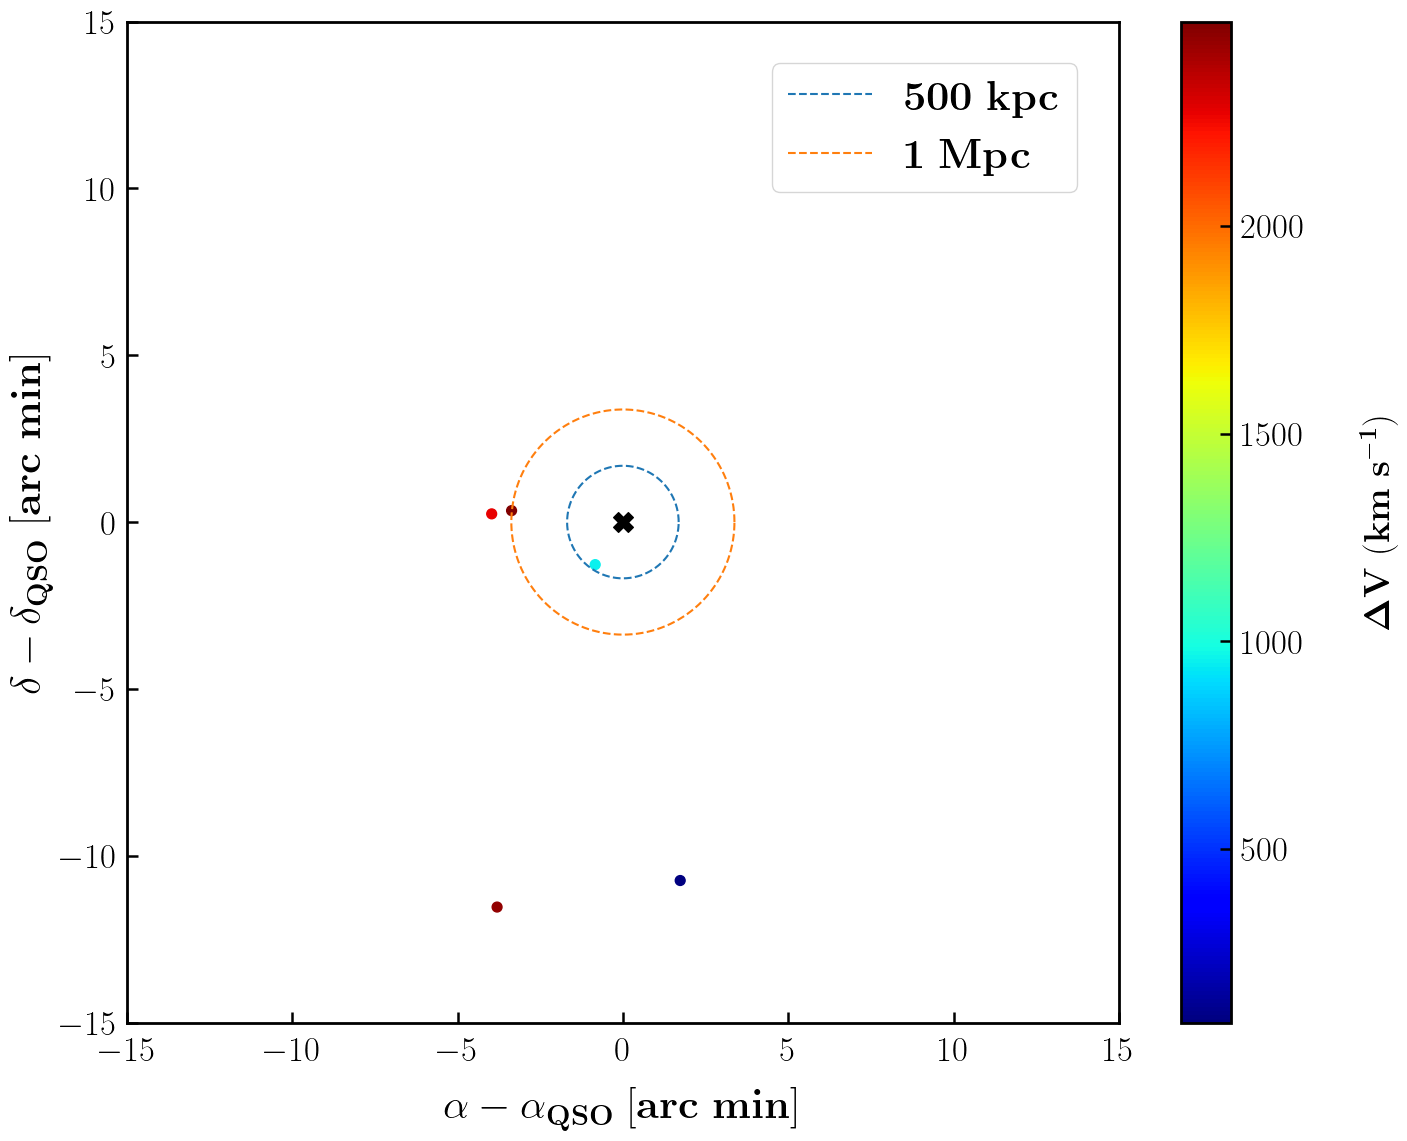
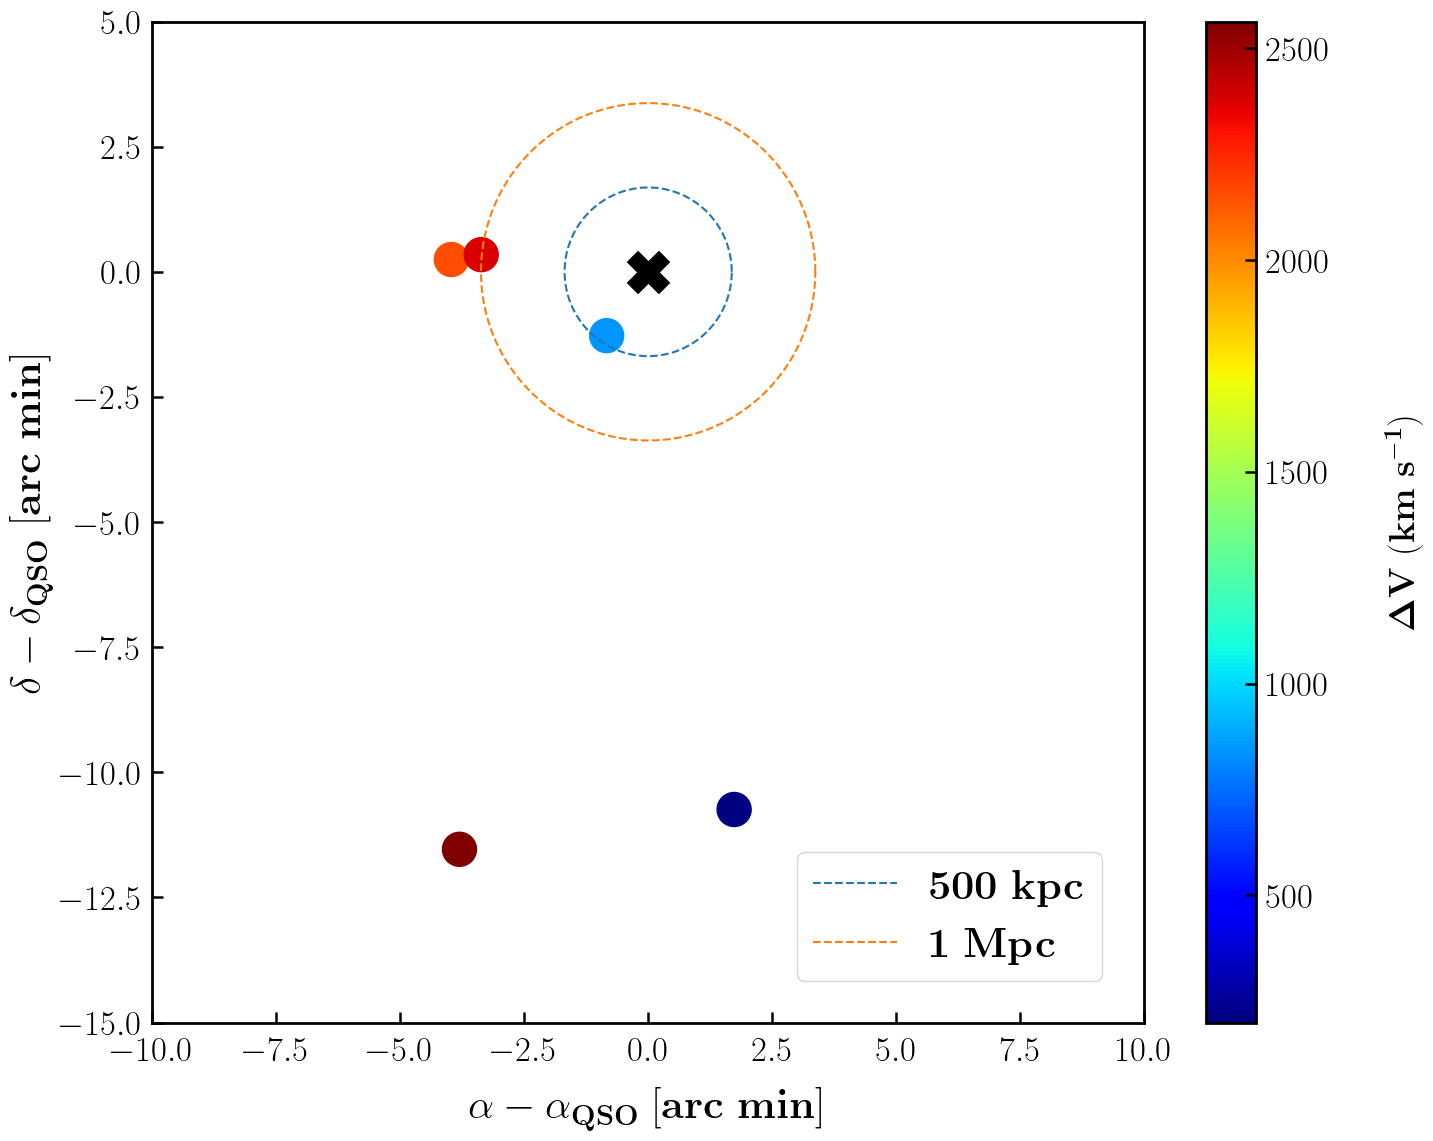
Auto

diff --git a/Python/Galaxy.py b/Python/Galaxy.py
@@ -9,7 +9,7 @@ from astropy.coordinates import SkyCoord
 plt.style.use('my_style.mpl')
 
 cosmo=FlatLambdaCDM(H0=69.6,Om0=0.3,Tcmb0=2.725)
-z_abs=0.347
+z_abs=0.347579
 
 dA_scale=cosmo.kpc_proper_per_arcmin(z_abs)
 
@@ -51,22 +51,22 @@ ra_qso,dec_qso=[1.4968167,16.163614]
 # plt.show()
 # quit()
 
-abs_sys_coord=SkyCoord(ra_qso*u.degree,dec_qso*u.degree)
-gal_coords=SkyCoord(ra*u.degree,dec*u.degree)
+# abs_sys_coord=SkyCoord(ra_qso*u.degree,dec_qso*u.degree)
+# gal_coords=SkyCoord(ra*u.degree,dec*u.degree)
 
-d2d = abs_sys_coord.separation(gal_coords)
+# d2d = abs_sys_coord.separation(gal_coords)
 
 # print((d2d*u.deg*60)[0].value)
 # quit()
 
-for i in range(len(ra)):
-    sep=(d2d*u.deg*60)[i].value
-    proj_dist=dA_scale.value*sep*0.001
-    print(f'{ra[i]:.5f}  &  {dec[i]:.5f}  &  {z[i]}  &  {v[i]:.0f}  &  {sep:.1f}  &  {proj_dist:.1f}  \\\\')
+# for i in range(len(ra)):
+#     sep=(d2d*u.deg*60)[i].value
+#     proj_dist=dA_scale.value*sep*0.001
+#     print(f'{ra[i]:.5f}  &  {dec[i]:.5f}  &  {z[i]}  &  {v[i]:.0f}  &  {sep:.1f}  &  {proj_dist:.1f}  \\\\')
 
 
 
-quit()
+# quit()
 
 # mask_sep = d2d < 1*u.deg
 
@@ -83,12 +83,12 @@ quit()
 #     else:
 #         mask.append(False)
 
-print(len(z[mask_sep]),len(z))
+# print(len(z[mask_sep]),len(z))
 
 
 
 
-quit()
+# quit()
 
 
 # sep_sky=abs_sys_coord.separation(gal_coords).arcminute
@@ -104,11 +104,11 @@ def circle(r,x0,y0,label):
 
     plt.plot(x,y,ls='--',label=label)
 
-print(abs(v))
+# print(abs(v))
 
 plt.figure(figsize=(16,13))
 
-plt.scatter((ra-ra_qso)*60,(dec-dec_qso)*60,s=50,c=abs(v),cmap='jet')
+plt.scatter((ra-ra_qso)*60,(dec-dec_qso)*60,s=600,c=abs(v),cmap='jet')
 
 # for i in range(len(ra)):
 #     plt.text((ra[i]-ra_qso)*60,(dec[i]-dec_qso)*60,s=f'{i+1}')
@@ -119,16 +119,16 @@ cb.set_label(r'$\mathbf{\Delta V \ (km \ s^{-1})}$',labelpad=40)
 circle(500/dA_scale.value,0,0,r'$\mathbf{500 \ kpc}$')
 circle(1000/dA_scale.value,0,0,r'$\mathbf{1 \ Mpc}$')
 # circle(5000/dA_scale.value,0,0,'5 Mpc')
-plt.scatter(0,0,s=200,c='black',marker='X')
-plt.legend(fontsize=30)
-plt.xlim(-15,15)
-plt.ylim(-15,15)
+plt.scatter(0,0,s=900,c='black',marker='X')
+plt.legend(fontsize=30,loc='lower right')
+plt.xlim(-10,10)
+plt.ylim(-15,5)
 plt.xticks(fontsize=25)
 plt.yticks(fontsize=25)
 plt.xlabel(r'$\mathbf{\alpha-{\alpha}_{QSO} \ [arc \ min]}$',fontsize=30,labelpad=15)
 plt.ylabel(r'$\mathbf{\delta-{\delta}_{QSO} \ [arc \ min]}$',fontsize=30)
-# plt.savefig('galaxy_environment.png')
-plt.show()
+plt.savefig('galaxy_environment.png')
+# plt.show()
 
 
 # plt.colorbar(label='separation')
